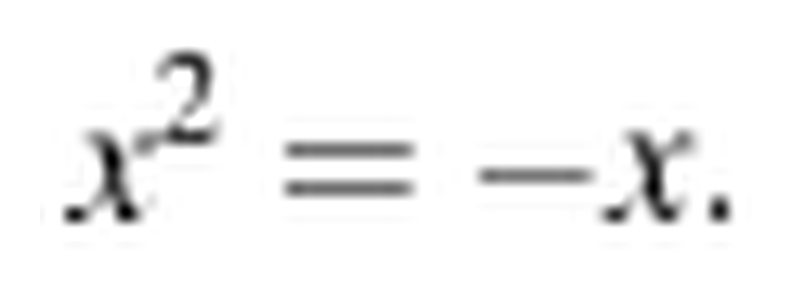
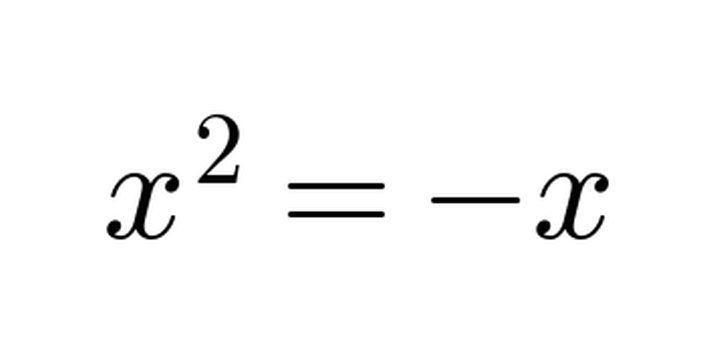
Add files via upload

Changed region(s): [[0.0619, 0.15, 0.557, 0.75], [0.5879, 0.42, 0.9283, 0.75]]

diff --git a/bot.py b/bot.py
@@ -212,12 +212,6 @@ TASKS_EGE: list[Task] = [
 
 TASKS_EGE_BASE: list[Task] = [
     Task(
-        "Дроби и вычисления",
-        "Найдите значение выражения:",
-        "2.65",
-        image="images/egebase_01_fraction.png",
-    ),
-    Task(
         "Чтение графиков",
         "На графике показан процесс разогрева двигателя легкового автомобиля. На оси абсцисс — время в минутах "
         "с момента запуска двигателя, на оси ординат — температура двигателя в градусах Цельсия. Определите по "
@@ -238,16 +232,22 @@ TASKS_EGE_BASE: list[Task] = [
         image="images/egebase_04_equation.png",
     ),
     Task(
-        "Корни и вычисления",
+        "Степени",
         "Найдите значение выражения:",
-        "-9",
-        image="images/egebase_05_roots.png",
+        "32",
+        image="images/egebase_new_powers.png",
     ),
     Task(
         "Текстовая задача (проценты)",
         "Флакон шампуня стоит 160 рублей. Какое наибольшее число флаконов можно купить на 1000 рублей во время "
         "распродажи, когда скидка составляет 25%?",
         "8",
+    ),
+    Task(
+        "Арифметические вычисления",
+        "Найдите значение выражения:",
+        "-0.5",
+        image="images/egebase_new_decimals.png",
     ),
     Task(
         "Тригонометрия",
